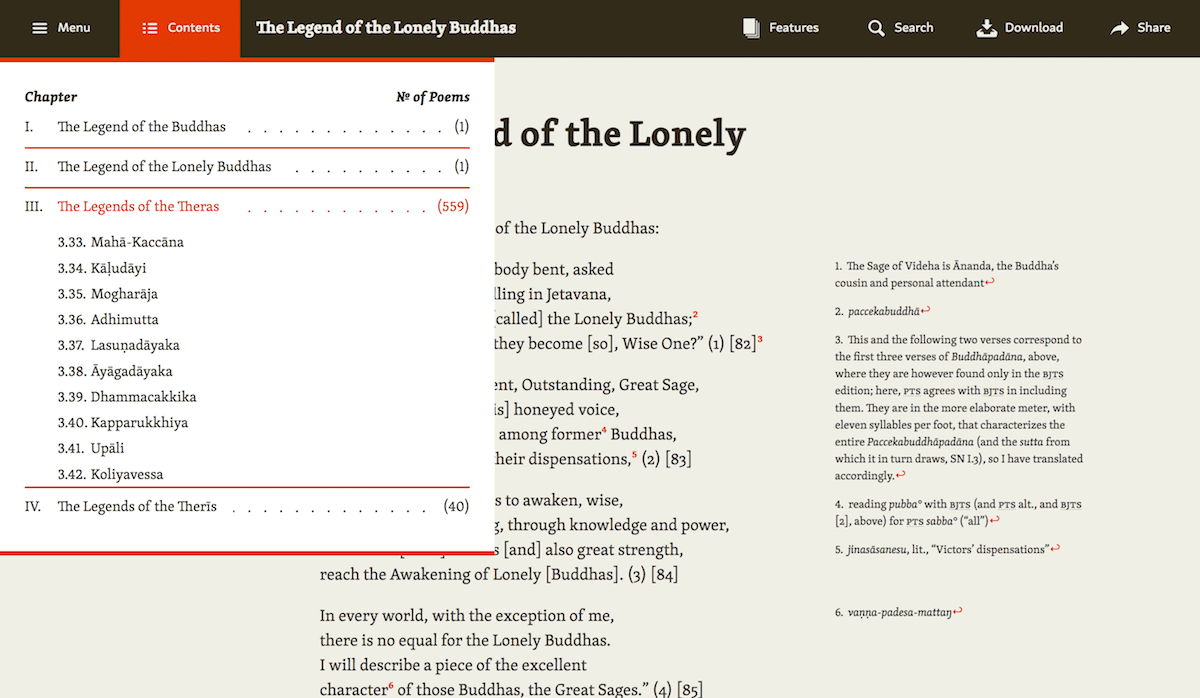
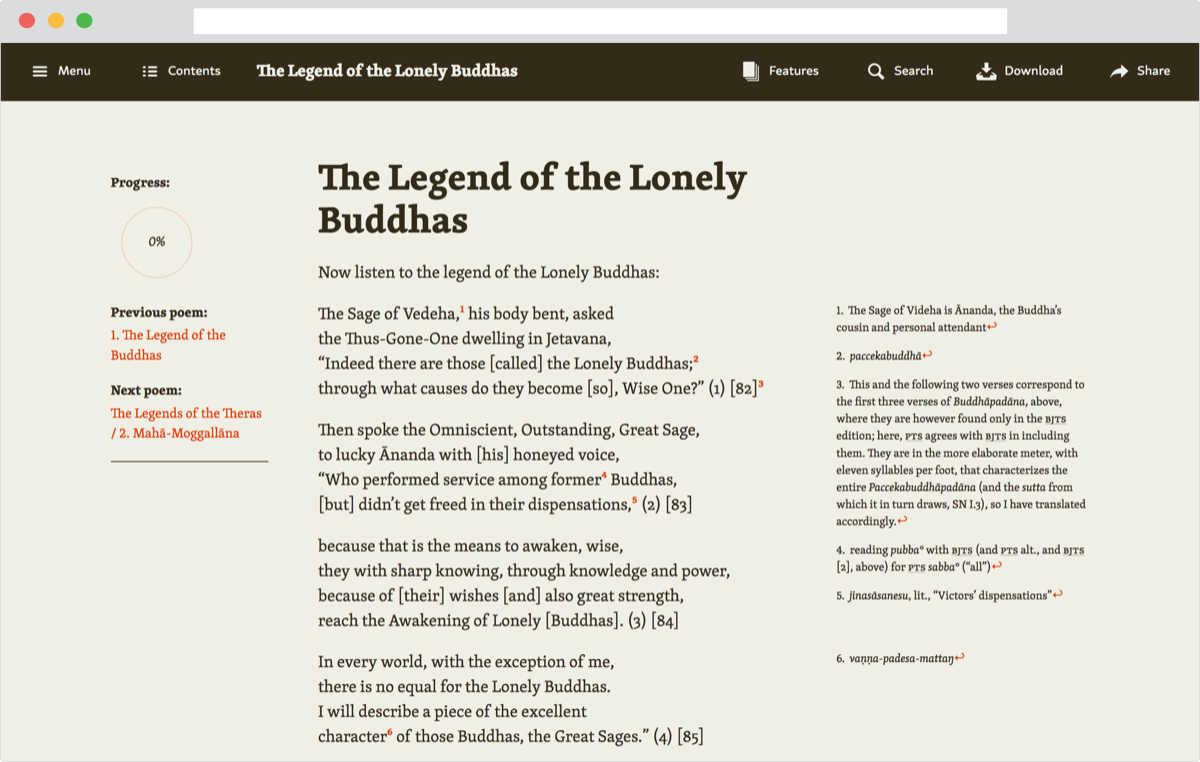
Use responsive images with srcset and jekyll-assets
- create liquid snippet for creating responsive image tag with jekyll-assets

- replace website screenshots in portfolio with better mockups

diff --git a/_projects/apadana.md b/_projects/apadana.md
@@ -11,32 +11,34 @@ order: 1
 
 *Apadāna* is a collection of roughly 600 early Buddhist poems, composed in Pāli around the second century, B.C.E. It has always been the only part of the Pāli Canon that had never been fully translated into English. Beginning in Spring 2017, I worked with Dr. Jonathan S. Walters, with funding from Whitman College, to create an open access digital publication of his translation of the text, entitled *Legends of the Buddhist Saints*.
 
-{% asset 'apadana_3.png' alt='Screenshot of Legends of the Buddhist Saints website.' %}
+{% include responsive-img.html.liquid src="apadana_4.png" alt="Screenshot of Legends of the Buddhist Saints website" %}
 
 The goals of the project were as follows: to convert the 2,000-page translation out of a word processor file and into something more durable and useable; to devise a best course of action for publishing the text online; and, to build an interface that allowed readers of differing levels to engage with the text at different levels.
 
 As of November 2017, the project is in beta testing.
 
 ### Interface design
-{% asset 'apadana_1.png' alt='Screenshot of Legends of the Buddhist Saints website.' %}
+{% include responsive-img.html.liquid src="apadana_1.png" alt="Screenshot of Legends of the Buddhist Saints website" %}
 
 A priority of Dr. Walters’, in conjunction with releasing the publication open-access, was to limit barriers of entry based on prior knowledge of Buddhism or Pāli. Scholars, teachers, students, purveyors of poetry, practicing Buddhists, and casual readers alike should be able to engage with the text at their desired level. To this end, Dr. Walters envisioned offering two versions of the text, one with just the text of the translation, and the other with all the essential aspects that a scholarly translation includes: diacritics, footnotes, and verse numbers referencing the source text. In fact, for a long time he was maintaining two .doc files to make this possible.
 
 When I came onboard, I felt strongly that the dual-manuscript solution was not sustainable, and could lead to problems maintaining a stable repository in the future. Not only that, but it wasn’t necessary. I wrote a JavaScript function that uses `grep` to identify the “scholarly” components of the text and apply an tag them with an HTML tag that can then be toggled on and off in the user interface. (I’ll write more about this in a blog post.) This has tremendous benefit to both reader and author. On Dr. Walters’ end, he need only maintain one copy of the text. And for the user, she can choose the level of reading she is comfortable with, or try out features she may not be familiar with yet.
 
-{% asset 'apadana_2.png' alt='Screenshot of Legends of the Buddhist Saints website.' %}
+{% include responsive-img.html.liquid src="apadana_2.png" alt="Screenshot of Legends of the Buddhist Saints website" %}
 
 In addition to the toggles for text features, the online interface also includes on-the-fly search of the entire translation, downloads in PDF and ePub, and quick links to cite a poem or share it on social media.
+
+{% include responsive-img.html.liquid src="apadana_3.png" alt="Screenshot of Legends of the Buddhist Saints website" %}
 
 The text is set in [Rosetta Type Foundry](https://www.rosettatype.com/ "Rosetta Type Foundry")’s [Skolar](https://www.rosettatype.com/Skolar "Skolar") and [Skolar Sans](https://www.rosettatype.com/SkolarSans "Skolar Sans"), which, besides being both modern and elegant yet pleasingly quirky typefaces, also feature Indic diacritics.
 
 ### Publishing workflow
 
-{% asset 'apadana_5.svg' alt='Screenshot of Legends of the Buddhist Saints website.' %}
+{% asset 'apadana_6.svg' alt='Screenshot of Legends of the Buddhist Saints website.' %}
 
 In building this publishing ecosystem, I was guided by the [principles](https://go-dh.github.io/mincomp/thoughts/2016/10/03/tldr/ "Minimal Definitions (tl;dr version)") of [Minimal Computing](https://go-dh.github.io/mincomp/ "Minimal Computing"), particularly those of Minimal Maintenance, Minimal Obsolescence, Maximum Access, and Maximum Accessibility. I chose [Markdown](https://daringfireball.net/projects/markdown/syntax "Markdown"), a minimal plain-text syntax, as the file format for encoding the translation. Unlike documents composed in word processors like Microsoft Word, Markdown does not confuse content with design features like font choice and margin size. Nor does it muddle the text with layers of unseen file data. It also does not require proprietary software to be read or edited. The result is a highly flexible and sustainable file format.
 
-{% asset 'apadana_4.png' alt='Screenshot of Legends of the Buddhist Saints website.' %}
+{% asset 'apadana_5.png' alt='Screenshot of Legends of the Buddhist Saints website.' %}
 
 The translation is stored in a [public repository on Github](https://github.com/apadana-translation/apadana-site). This offers many benefits: changes to the translation are documented and archived, and the raw text of the publication is made freely available to others under the [CC-BY-NC-SA license](https://creativecommons.org/licenses/by-nc-sa/3.0/us/).
 

diff --git a/_projects/print-publications.md b/_projects/print-publications.md
@@ -10,29 +10,29 @@ I’ve worked with a number of companies, organizations, publishers, and authors
 
 ---
 
-*Brave, Creative, Resilient: The Global State of Young Feminist Organizing*, FRIDA | The Young Feminist Fund and the Young Feminist Activism (YFA) Program of the Association of Women’s Rights in Development (AWID) ([View Report](https://www.awid.org/publications/brave-creative-and-resilient-state-young-feminist-organizing))
-{% asset 'frida-awid_field-scan_1.png' alt='Spread from “Brave, Creative, Resilient: The Global State of Young Feminist Organizing.”' %}
-{% asset 'frida-awid_field-scan_2.png' alt='Spread from “Brave, Creative, Resilient: The Global State of Young Feminist Organizing.”' %}
+*Brave, Creative, Resilient: The Global State of Young Feminist Organizing*, FRIDA \| The Young Feminist Fund and the Young Feminist Activism (YFA) Program of the Association of Women’s Rights in Development (AWID) ([View Report](https://www.awid.org/publications/brave-creative-and-resilient-state-young-feminist-organizing))
+{% include responsive-img.html.liquid src="frida-awid_field-scan_1.png" alt='Spread from “Brave, Creative, Resilient: The Global State of Young Feminist Organizing”' %}
+{% include responsive-img.html.liquid src="frida-awid_field-scan_2.png" alt='Spread from “Brave, Creative, Resilient: The Global State of Young Feminist Organizing”' %}
 
 ---
 
-*The Year of Blooming: 2015 Annual Report*, FRIDA | The Young Feminist Fund ([View Online](https://youngfeministfund.org/annual-reports/))
-{% asset 'frida_annual-report_1.png' alt='Spread from FRIDA’s 2015 Annual Report.' %}
-{% asset 'frida_annual-report_2.png' alt='Spread from FRIDA’s 2015 Annual Report.' %}
+*The Year of Blooming: 2015 Annual Report*, FRIDA \| The Young Feminist Fund ([View Online](https://youngfeministfund.org/annual-reports/))
+{% include responsive-img.html.liquid src="frida_annual-report_1.png" alt='Spread from FRIDA’s 2015 Annual Report' %}
+{% include responsive-img.html.liquid src="frida_annual-report_2.png" alt='Spread from FRIDA’s 2015 Annual Report' %}
 
 ---
 
 *Hacking the Kinetic Chain: Advanced Edition*, Driveline Baseball ([View Online](https://www.drivelinebaseball.com/shop-page/training-equipment/hacking-the-kinetic-chain/))
-{% asset 'driveline-baseball_htkc-advanced_1.png' alt='Spread from “Hacking the Kinetic Chain: Advanced Edition.”' %}
-{% asset 'driveline-baseball_htkc-advanced_2.png' alt='Spread from “Hacking the Kinetic Chain: Advanced Edition.”' %}
+{% include responsive-img.html.liquid src="driveline-baseball_htkc-advanced_1.png" alt='Spread from “Hacking the Kinetic Chain: Advanced Edition”' %}
+{% include responsive-img.html.liquid src="driveline-baseball_htkc-advanced_2.png" alt='Spread from “Hacking the Kinetic Chain: Advanced Edition”' %}
 
 ---
 
 *Hacking the Kinetic Chain: Youth Edition*, Driveline Baseball ([View Online](https://www.drivelinebaseball.com/shop-page/books-packages/hacking-the-kinetic-chain-youth/))
-{% asset 'driveline-baseball_htkc-youth_1.jpg' alt='Spread from “Hacking the Kinetic Chain: Youth Edition.”' %}
-{% asset 'driveline-baseball_htkc-youth_2.jpg' alt='Spread from “Hacking the Kinetic Chain: Youth Edition.”' %}
+{% include responsive-img.html.liquid src="driveline-baseball_htkc-youth_1.jpg" alt='Spread from “Hacking the Kinetic Chain: Youth Edition”' %}
+{% include responsive-img.html.liquid src="driveline-baseball_htkc-youth_2.jpg" alt='Spread from “Hacking the Kinetic Chain: Youth Edition”' %}
 
 ---
 
 *This is Not a Sutra*, Chad Frisk ([Amazon](https://www.amazon.com/This-Not-Sutra-Meditation-Thinkers-ebook/dp/B01H6C8VOG))
-{% asset 'sutra_1.png' alt='Spread from “This is Not a Sutra.”' %}
+{% include responsive-img.html.liquid src="sutra_1.png" alt='Spread from “This is Not a Sutra”' %}

diff --git a/_projects/breadbaking.md b/_projects/breadbaking.md
@@ -15,13 +15,13 @@ I began thinking about the potential of Git’s versioning and archiving power a
 
 My formulas don't develop linearly. While there may be a “master” version, ingredients, quantities, and methods change from bake to bake without necessarily replacing the previous version of the recipe. Some turn into new recipes, others dead ends, while still others become alternatives — riffs on a theme.
 
-{% asset 'bread-formula-log.png' alt='The bread formula repository with commit history and branches.' %}
+{% include responsive-img.html.liquid src="bread-formula-log.png" alt="The bread formula repository with commit history and branches" %}
 
 This [GitHub repository](https://github.com/dananjohnson/bread-formulas) attempts to document the riverine development of these formulas. Recipe experimentation and evolution are tracked in branches, one branch per recipe. All recipes are at some stage of development; some are close but need minor tweaking, others may be disasters. If I make a second attempt at a recipe, I track that attempt on a new branch; if it’s successful, I merge it into the main branch for that recipe; if not; it simply stays put, but preserved.
 
 The recipes that I consider *good enough* — an amorphous, perfectionistic, and excessively subjective classification — are merged into the master branch, and then published on [A Breadbaker’s Notebook](https://github.com/dananjohnson/breadbakers-notebook), a simple, Jekyll-based “cookbook” website.
 
-{% asset 'breadbakers-notebook.png' alt='An example recipe on A Breadbaker’s Notebook.' %}
+{% include responsive-img.html.liquid src="breadbakers-notebook.png" alt="An example recipe on A Breadbaker’s Notebook" %}
 
 I’ve created A Breadbaker’s Notebook as a more user-friendly GUI for the project, an attractive place for good recipes to reside. Think of it as the equanimous facade for the chaotic laboratory. I use [Jekyll](https://jekyllrb.com/) for site generation and [Travis CI](https://travis-ci.org/) for continuous deployment, and the recipe formatting employs structured data to maximize readability to search engines and other third parties.
 

diff --git a/_projects/book-covers.md b/_projects/book-covers.md
@@ -11,14 +11,14 @@ A handful of book covers I’ve designed over the years.
 ---
 
 Dan Rudmann, *The Disguise of Language: Translation through the Mahābhārata* (forthcoming)
-{% asset 'disguise-of-language.jpg' alt='The Disguise of Language' %}
+{% include responsive-img.html.liquid src="disguise-of-language.jpg" alt='Cover of “The Disguise of Language”' %}
 
 ---
 
 *This is not a Sutra*, Chad Frisk ([Amazon](https://www.amazon.com/This-Not-Sutra-Meditation-Thinkers-ebook/dp/B01H6C8VOG))
-{% asset 'sutra.jpg' alt='This is Not a Sutra' %}
+{% include responsive-img.html.liquid src="sutra.jpg" alt='Cover of “This is Not a Sutra”' %}
 
 ---
 
 *Chokuyaku Fukano*, Chad Frisk ([Amazon](https://www.amazon.in/chokuyaku-fukano-kyoshi-nihon-Japanese-ebook/dp/B00UISHRMS))
-{% asset 'chokuyaku-fukano.jpg' alt='Chokuyaku Fukano' %}
+{% include responsive-img.html.liquid src="chokuyaku-fukano.jpg" alt='Cover of “Chokuyaku Fukano”' %}
